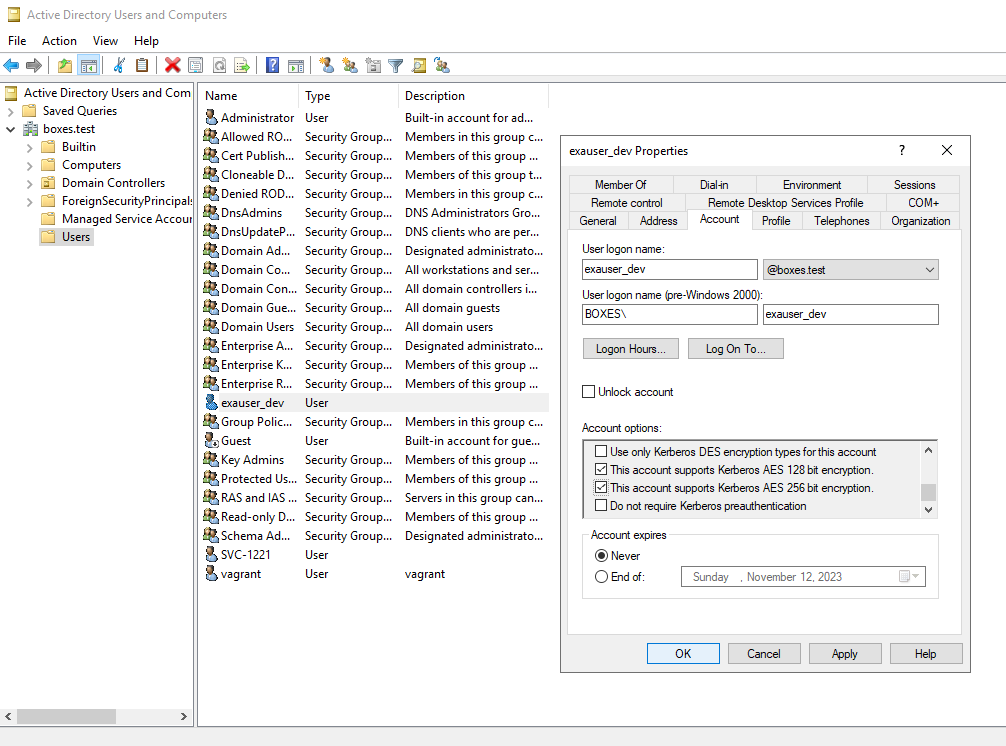
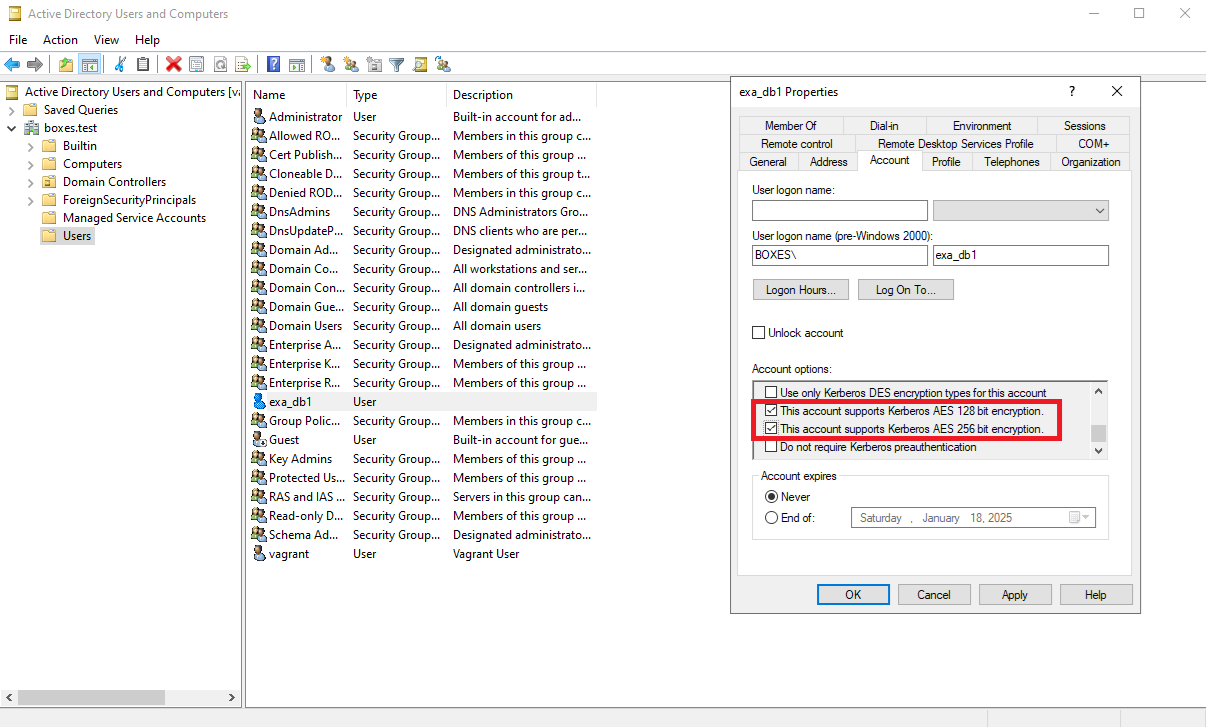
Vshilin patch 3 fixing ad/kerberos sso article (#106)
* Update setting-up-ad-kerberos-sso.md

* Add files via upload

* Add files via upload

* Update setting-up-ad-kerberos-sso.md

* Add files via upload

* Update setting-up-ad-kerberos-sso.md

* Update setting-up-ad-kerberos-sso.md

* Update setting-up-ad-kerberos-sso.md

* Update setting-up-ad-kerberos-sso.md

* Update setting-up-ad-kerberos-sso.md

* Update Database-Features/setting-up-ad-kerberos-sso.md

* Update Database-Features/setting-up-ad-kerberos-sso.md

* Update Database-Features/setting-up-ad-kerberos-sso.md

* Update Database-Features/setting-up-ad-kerberos-sso.md

* Update Database-Features/setting-up-ad-kerberos-sso.md

* Update Database-Features/setting-up-ad-kerberos-sso.md

* Update Database-Features/setting-up-ad-kerberos-sso.md

* Update Database-Features/setting-up-ad-kerberos-sso.md

* Update Database-Features/setting-up-ad-kerberos-sso.md

* Update Database-Features/setting-up-ad-kerberos-sso.md

* Update Database-Features/setting-up-ad-kerberos-sso.md

* Update Database-Features/setting-up-ad-kerberos-sso.md

* Update Database-Features/setting-up-ad-kerberos-sso.md

* Update Database-Features/setting-up-ad-kerberos-sso.md

* Update Database-Features/setting-up-ad-kerberos-sso.md

* Update Database-Features/setting-up-ad-kerberos-sso.md

* Update setting-up-ad-kerberos-sso.md

---------

Changed region(s): [[0.0, 0.0, 1.0, 0.9973], [0.6163, 0.7555, 0.9553, 0.9066], [0.5547, 0.8764, 0.5855, 0.9066]]

diff --git a/Database-Features/setting-up-ad-kerberos-sso.md b/Database-Features/setting-up-ad-kerberos-sso.md
@@ -1,14 +1,41 @@
 # Setting up Exasol Kerberos single sign-on with Active Directory
 ## Prerequisites
-* AD: installed and configured to authenticate users, domain is configured (which hosts users to be SSO in Exasol DB), admin access to AD
-* Exasol DB 7.1: installed and configured, admin access to Exaoperation, dba access to DB
-* Client machine: able authenticate with AD (get kerberos tgt for the client user), able to establish connection to Exasol DB, EXAplus installed (https://downloads.exasol.com/clients-and-drivers/exaplus)
+
+To successfully set up and use this integration, ensure the following requirements are met:
+
+### 1. Active Directory (AD)
+- Installed and configured to authenticate users.
+- A domain is set up to host users for Single Sign-On (SSO) with Exasol DB.
+- Administrative access to AD is available.
+
+### 2. Exasol Database
+- Installed and properly configured.
+- Exasol v7.1 - administrative access to EXAoperation is available.
+- Exasol v8 - administrative access to COS and ConfD is available.
+- DBA privileges are granted for the database.
+
+### 3. Client Machine
+- Capable of authenticating with AD (able to obtain a Kerberos Ticket Granting Ticket (TGT) for the client user).
+- Able to establish a connection to the Exasol database.
+- EXAplus client installed. [Download here](https://downloads.exasol.com/clients-and-drivers/exaplus).
 
 ## Configuring SSO for ExasolDB
-###  1. Create Exasol service account in AD
-Create a new user in the AD domain to represent Exasol DB service.
 
-This can be done by following commands in PowerShell:
+>  **Important:** Please **double-check all commands and inputs** for accuracy. Even small typos can lead to critical errors or unexpected behavior.
+> 
+> - Identifiers (usernames, hostnames, realms, domains etc.)  and configurations provided below are **case-sensitive**.
+> - To avoid additional issues it is recommended to use simple names in lowercase where it is applicable.
+> - If you encounter issues, review your inputs for potential misspellings or formatting errors before proceeding.
+> 
+> Your attention to detail is crucial for successful execution.
+
+###  1. Create Exasol service account in AD
+Create a new user in the AD domain to represent Exasol DB service. 
+> **Important:** This account represents the Exasol database itself and is not intended to be used as a user account for authentication within the database. You can pick an arbitrary name, it is just an alias for an Exasol service. Try to keep it simple and use lower case.
+
+> **Important:** Only users from the same domain/realm will be able to authenticate in the Exasol database using this service account.
+
+This can be accomplished using the following PowerShell commands:
 ```
 $password = ConvertTo-SecureString "{Service account password}" -AsPlainText -Force
 New-ADUser -Name "{Service account name}" -AccountPassword $password -Enabled $true
@@ -19,15 +46,8 @@ New-ADUser -Name "{Service account name}" -AccountPassword $password -Enabled $t
 **Example**
 ```
 $password = ConvertTo-SecureString "Password123!" -AsPlainText -Force
-New-ADUser -Name "exauser_dev" -AccountPassword $password -Enabled $true
+New-ADUser -Name "exa_db1" -AccountPassword $password -Enabled $true
 ```
-
-
-or in "Active Directory Users and Computers" UI:
-
-![](images/setting-up-ad-kerberos-sso_screenshot_1.png)
-
-***Note: service user can have an arbitrary name, it is just an alias for an Exasol service***
 
 ###  2. Anable supports AES 128/256 bit encryption for Exasol service user
 In "Active Directory Users and Computers" go to previously created Exasol user -> Properties -> Account -> Account options -> check "This account supports AES 128 bit encryption" and "This account supports AES 256 bit encryption" checkboxes.
@@ -35,15 +55,15 @@ In "Active Directory Users and Computers" go to previously created Exasol user -
 ![](images/setting-up-ad-kerberos-sso_screenshot_2.png)
 
 ###  3. Register SPN for exasol service user
-In order to register SPN execute following command in PowerShell: 
+In order to register SPN execute the following command in PowerShell: 
 
 ```
 setspn -S {Exasol service name}/{Exasol host name}.{AD domain} {Service account name}
 ```
 
-* **\{Exasol service name\}**: this parameter represents a **kerberos service name** of a particular exasol instance. This is the first out of 2 parameters which will be used during user authentication. It is arbitrary now, but later on it will be critical to use the exact value which is set up here.  
-* **\{Exasol host name\}**: this parameter represents a **kerberos host name** of a particular exasol instance. This is the second out of 2 parameters which will be used during user authentication. It is arbitrary now, but later on it will be critical to use the exact value which is set up here.  
-* **\{AD domain\}**: Active Directory domain of the Exasol service user created during step 1  
+* **\{Exasol service name\}**: this parameter represents a **kerberos service name** of a particular exasol instance. This is the first out of 2 parameters which will be used during user authentication. It is arbitrary now, but later on it will be critical to use the exact value which is set up here. Try to keep it simple and use lower case. 
+* **\{Exasol host name\}**: this parameter represents a **kerberos host name** of a particular exasol instance. This is the second out of 2 parameters which will be used during user authentication. It is arbitrary now, but later on it will be critical to use the exact value which is set up here. Try to keep it simple and use lower case. 
+* **\{AD domain\}**: Active Directory domain of the Exasol service user created during step 1. 
 * **\{Service account name\}**: Exasol service user created during step 1  
 
 To check that SPN was registered correctly run the following command in PowerShell:
@@ -53,7 +73,7 @@ setspn -L {Service account name}
 
 **Example**
 ```
-setspn -S exasol/exacluster_dev.boxes.test exauser_dev
+setspn -S exasol/exacluster_dev.boxes.test exa_db1
 ```
 ![](images/setting-up-ad-kerberos-sso_screenshot_3.png)
 
@@ -74,10 +94,11 @@ ktpass -out {Keytab path}\exasol_service.keytab -princ {Exasol service name}/{Ex
 
 **Example**
 ```
-ktpass -out C:\temp\exasol_service.keytab -princ exasol/exacluster_dev.boxes.test@BOXES.TEST -mapuser BOXES\exauser_dev -mapop set -pass Password123! -ptype KRB5_NT_PRINCIPAL -crypto all
+ktpass -out C:\temp\exasol_service.keytab -princ exasol/exacluster_dev.boxes.test@BOXES.TEST -mapuser BOXES\exa_db1 -mapop set -pass Password123! -ptype KRB5_NT_PRINCIPAL -crypto all
 ```
 
-###  5. Upload service keytab in Exaoperation
+###  5.1 Upload service keytab in EXAoperation - Exasol v7.1.
+> **Important:** This section applies only to Exasol version 7.1 with EXAoperation. For other types of Exasol installations, please refer to Section 5.2.
 * Login to Exaoperation of the Exasol DB instance which you need to be accessible with AD SSO.
 * Shutdown the database
   ![](images/setting-up-ad-kerberos-sso_screenshot_4.png)
@@ -91,17 +112,61 @@ ktpass -out C:\temp\exasol_service.keytab -princ exasol/exacluster_dev.boxes.tes
 * Startup the database and wait until it goes online
   ![](images/setting-up-ad-kerberos-sso_screenshot_7.png)
 
-###  6. Create database user which should authenticate with Kerberos principal
-Now the Exasol cluster is configured to authenticate AD users with help of kerberos tickets, and we should allow some AD users to access the database this way.
-Since we are dealing with an SSO solution, once the user is logged in their client machine, a tgt-ticket for a corresponding user principal should be already granted. We can check it using **klist** command on the user's machine.
+###  5.2 Upload service keytab using ConfD - Exasol v8.
+> **Important:** This section applies to Exasol version without EXAoperation.
+* Log in to any node of your Exasol database deployment and use the command-line tool confd_client to perform the following operations.
+* Stop the database using [db_stop](https://docs.exasol.com/db/latest/confd/jobs/db_stop.htm) ConfD job.
+* Upload the keytab file generated in Step 4 to a temporary location in the Cluster Operating System (COS), such as `/tmp/exasol_service.keytab`.
+* Use the [db_configure_kerberos](https://docs.exasol.com/db/latest/confd/jobs/db_configure_kerberos.htm) job to setup Kerberos realm EXAConf parameteres and upload keytab file on all nodes. Only Kerberos realm parameter is necessary.
+> **Important:** Currently this job doens't work correctly.
+> 
+> The db_configure_kerberos job cannot process actual keytab files. It expects either the file's content as a text string or an attempt to read the file as text using the {<filename} syntax. Both approaches fail since keytab files are binary and cannot be represented as text.
+> 
+* **Workaround**
+  * Use db_configure_kerberos only to set EXAConf parameters and create a "dummy" keytab file in the correct location. 
+  * Manually replace the "dummy" keytab with the actual keytab file on all nodes.
+  * The keytab file must be located on each DB node in the following path: /exa/etc/<database name>-keytab.
+  * Ensure the keytab file does not already exist before running the job. If it does, delete it first.
+* Start up the database using [db_start](https://docs.exasol.com/db/latest/confd/jobs/db_start.htm) ConfD job.
+ 
+**Example**
+```
+# stop the database
+confd_client db_stop db_name: DB1
+
+cd /exa/etc/
+
+#if keytab file alredy exists move it somewhere else
+mv DB1-keytab DB1-keytab.bak
+
+#run the db_configure_kerberos job
+confd_client db_configure_kerberos db_name: DB1 keytab: 'any_string' realm: BOXES.TEST
+
+#On all nodes: remove "dummy" keytab created by db_configure_kerberos
+rm DB1-keytab
+
+#On all nodes: upload correct keytab file under the same name
+cp /tmp/exasol_service.keytab /exa/etc/DB1-keytab
+
+# start the database
+confd_client db_start db_name: DB1
+```
+
+
+###  6. Create a Database User for Authentication with a Kerberos Principal
+> **Important:** AD users should be in the same realm/domain as the Exasol service account from the Step 1.
+
+The Exasol cluster is now configured to authenticate AD users using Kerberos tickets. Next, you need to create corresponding database users (they will be authenticated via the TGT of an AD user's principal) and grant them the necessary privileges within the database.
+
+Since this is a SSO solution, a TGT for the corresponding AD user principal should already be available once the user logs in to their client machine. You can verify this by running the klist command on the user's machine.
 
 ![](images/setting-up-ad-kerberos-sso_screenshot_8.png)
 
-If for some reason tgt is not there (for example it expired), you can try to request it manually with the help of **kinit** command.
+If for some reason tgt is not there (for example it has expired), you can try to request it manually with help of **kinit** command.
 
-To allow the AD user to authenticate to Exasol db using AD SSO do the following:
-* connect to DB as dba
-* create a database user which is identified by AD user's kerberos principal:
+To enable an AD user to authenticate to the Exasol database using AD SSO, follow these steps::
+* connect to Exasol DB as dba
+* create a database user which is identified by the AD user's kerberos principal:
   ```sql
   create user {db user name} identified by KERBEROS PRINCIPAL '{AD user name}@{Kerberos realm}';
   GRANT CREATE SESSION TO {db user name};
@@ -109,7 +174,7 @@ To allow the AD user to authenticate to Exasol db using AD SSO do the following:
   ```
   *  **\{db user name\}**: arbitrary Exasol db user name. This username itself is just a representation of AD user, it can be completely different form AD username and will not be directly used during authentication.  
   *  **\{AD user name\}**: username of AD user which we want to allow to access the database.  
-  *  **\{Kerberos realm\}**: In AD it is usually the domain name written in all capital letters.  
+  *  **\{Kerberos realm\}**: In AD it is usually the domain name written in all capital letters. The AD user must have the same Realm as the Exasol service account from Step 1.  
 
   **Example**
   ```sql
@@ -124,7 +189,7 @@ Configuration is completed. Now we can test connection to the database from the 
 * Login into the user's machine using user's AD account.
 * Make sure that user's credential cache already contains an appropriate tgt-ticket. To do so, use **klist** command and check that the result contains a ticket for the principal **\{AD user name\}@\{Kerberos realm\}**.
 * Open shell terminal and navigate to EXAplus directory
-* First try to connect to Exasol DB using a standard authentication method with username and password. For example use dba user from step 6.
+* To verify network connectivity between the client machine and the Exasol database, first attempt to connect to the database using a standard authentication method with a username and password. For example, use the dba user from Step 6.
   ```
   ./exaplusx64.exe -c {Full connection string to Exasol db}
   ```
@@ -132,11 +197,31 @@ Configuration is completed. Now we can test connection to the database from the 
 
   ![](images/setting-up-ad-kerberos-sso_screenshot_9.png)
 
-* Once connection is established you can be sure that client can access and proceed with testing Kerberos authentication.
-* Now add **-k** option to the command. EXAplus will ask you to type **Service name** and **Host** instead of username and password. Use **\{Exasol service name\}** and **\{Exasol host name\}** from step 3.
+* Once connection is established you can be sure that client can access the DB. Now proceed with testing Kerberos authentication.
+* Add **-k** option to the command. EXAplus will ask you to type **Service name** and **Host** instead of username and password. Use **\{Exasol service name\}** and **\{Exasol host name\}** from step 3.
 
   **Example**
 
   ![](images/setting-up-ad-kerberos-sso_screenshot_10.png)
+
+##  Known issues
+
+### Error: [28900] Cannot initialize SSPI security context
+`Error: [28900] Cannot initialize SSPI security context. The specified target is unknown or unreachable` during Step 7. This usually mean that provided parameters **Service name** and **Host** don't match the service keytab uploaded in Exasol DB.
+
+**Actions:**
+* Make sure that **Service name** and **Host** are exactly the same as returned by `setspn -L {Service account name}` command. Run it in the same command prompt before running Exaplus.
+
+
+### Error: [28900] Connection exception - authentication failed.
+`Error: [28900] Connection exception - authentication failed.` during Step 7. 
+
+**Actions:**
+* Permissions on `/var/tmp/krb5_500.rcache2`.There might be an issue with permissions for this file `/var/tmp/krb5_500.rcache2`. It is a temporary file used by the Kerberos authentication mechanism to store information about authentication tickets that have been issued. This file is generated by the Kerberos libraries when Exasol performs Kerberos authentication. Ensure that users in the `exausers` group (in particular this user: `exadefusr` ) have Read/Write permissions in the `/var/tmp/` directory on all nodes. If permissions are insufficient, issue corresponding chmod command: `chmod 777 /var/tmp/`
+* Make sure that Exasol Service Account keytab is correctly imported in the DB.
+* Check that **Kerberos Realm** db parameter is correctly set in EXAoperation/EXAConf.
+* Try to regenerate keytab carefully and import it into DB once again.
+* This error could indicate several different issues. To investigate further, export the database logs following the [instructions here](https://docs.exasol.com/db/latest/administration/on-premise/admin_interface/exasupport.htm) and send them to Exasol Support.
+
 
 *We appreciate your input! Share your knowledge by contributing to the Knowledge Base directly in [GitHub](https://github.com/exasol/public-knowledgebase).* 
